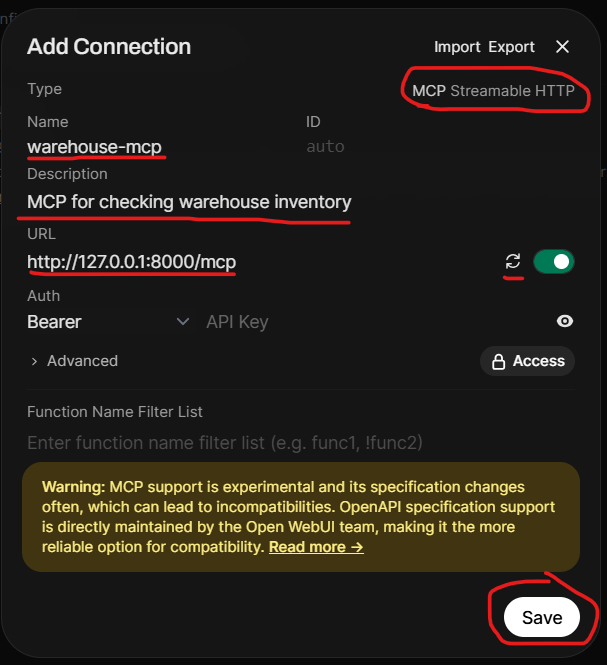
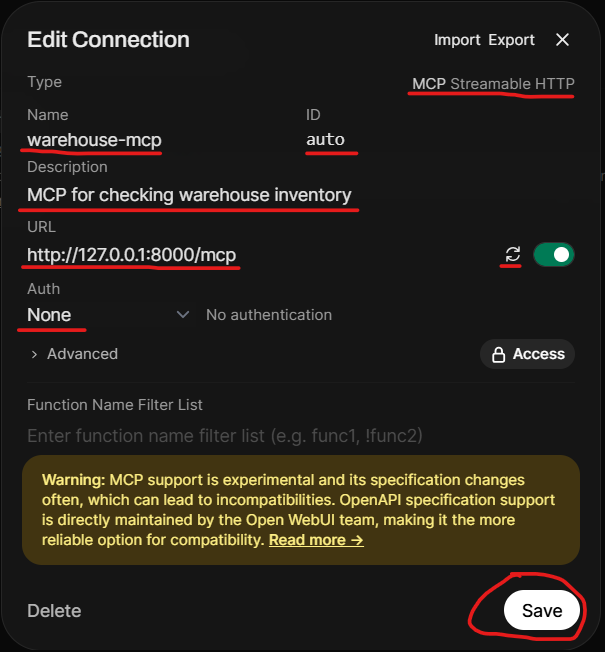
mcp

diff --git a/day1/03_MCP.md b/day1/03_MCP.md
@@ -250,3 +250,15 @@ Now we can add our running MCP server address to Open WebUI to use:
 | ![image4_4.png](../imgs/image4_4.png) |
 |:--:|
 | _Warehouse MCP configuration_ |
+
+3. Switching back to chat mode, we should see the MCP server in the **Integrations** dropdown:
+
+| ![image4_5.png](../imgs/image4_5.png) |
+|:--:|
+| _Successful MCP integration_ |
+
+4. Now we can ask about our warehouse inventory just like before, but this time we're delegating the tool calls to our MCP server rather than our client running them directly:
+
+| ![image4_6.png](../imgs/image4_6.png) |
+|:--:|
+| _MCP running in chat_ |
